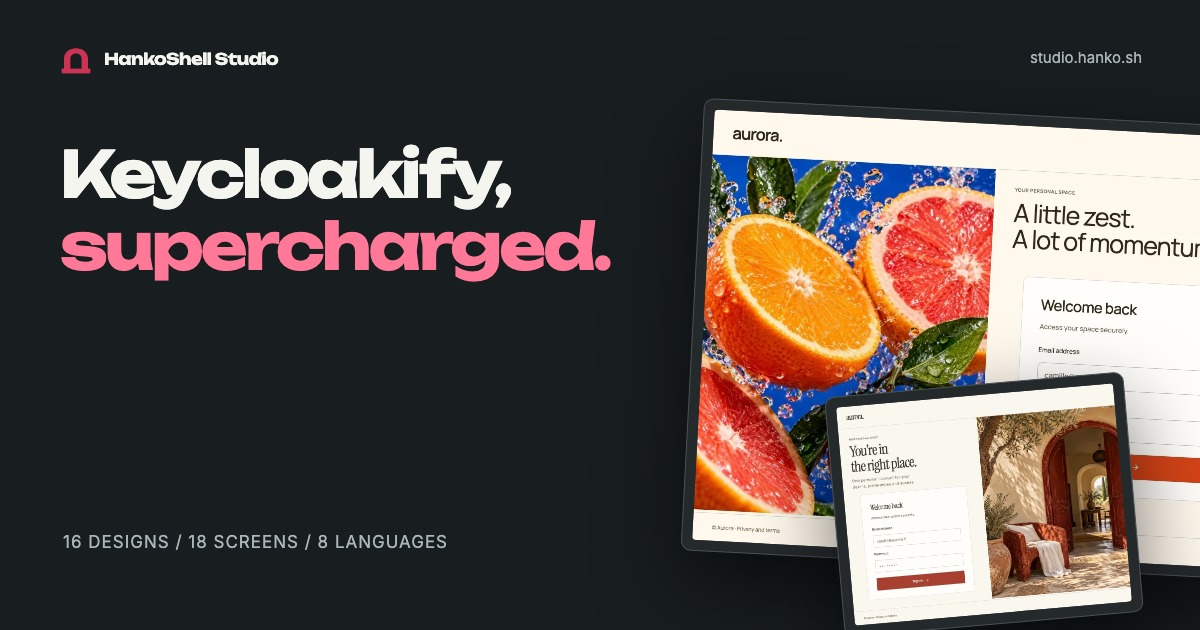
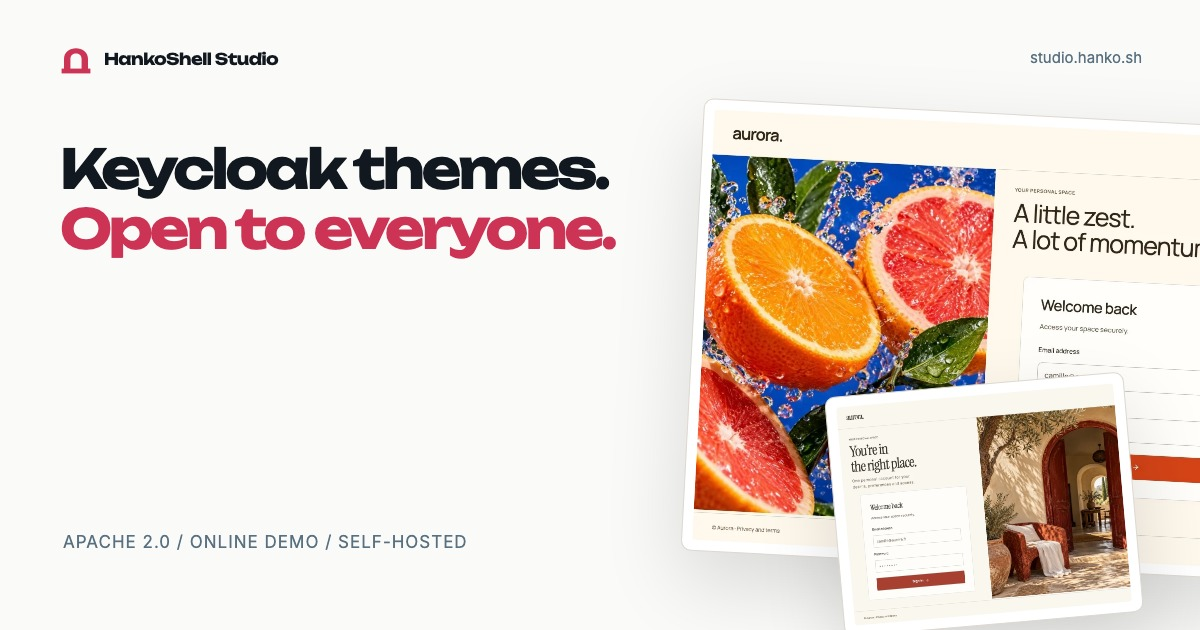
Align Studio appearance and clarify its open-source scope (#13)
Add light, dark and system appearance with matching HankoShell typography, palette and retained site-to-editor handoff. Present Studio as an independent Apache-2.0 tool for any Keycloak project and prepare version 0.1.1.

Canonicalize appearance input and qualify accessibility in both schemes. Full CI, isolated consumers, native Keycloak tests, public site tests and CodeQL passed for c8e31a607b2fd82f107a4cbd0943b7feaad2ecda.

Closes #12.

diff --git a/website/styles.css b/website/styles.css
@@ -1,4 +1,4 @@
-:root{color-scheme:dark;--panel:var(--bg-surface);--panel-raised:var(--bg-card);--ink:var(--fg);--muted:var(--fg-muted);--line:var(--border);--accent:var(--primary);--display:'HankoShell Display',sans-serif;--sans:'HankoShell Sans',Inter,system-ui,sans-serif;--mono:'HankoShell Mono',monospace}
+:root{--panel:var(--bg-surface);--panel-raised:var(--bg-card);--ink:var(--fg);--muted:var(--fg-muted);--line:var(--border);--accent:var(--primary);--display:'HankoShell Display',sans-serif;--sans:'HankoShell Sans',Inter,system-ui,sans-serif;--mono:'HankoShell Mono',monospace}
 *{box-sizing:border-box}html{scroll-behavior:smooth;scroll-padding-top:96px}body{margin:0;background:var(--bg);color:var(--ink);font:15px/1.6 var(--sans);-webkit-font-smoothing:antialiased}button,a{-webkit-tap-highlight-color:transparent}button,input{font:inherit}button{color:inherit}a{color:inherit;text-decoration:none}button,a,summary{touch-action:manipulation}button:focus-visible,a:focus-visible,summary:focus-visible{outline:2px solid var(--accent);outline-offset:5px}button{cursor:pointer}button:disabled{cursor:default}::selection{background:var(--primary-action);color:#fff}img{display:block;max-width:100%}button{border:0}p,h1,h2,h3,figure{margin:0}h1,h2,h3{font-weight:600}em{font-family:var(--display);font-weight:400}h2{font-size:clamp(38px,5vw,70px);line-height:1.06;letter-spacing:-.055em}h3{font-size:23px;line-height:1.25;letter-spacing:-.035em}.section-wrap{width:min(1440px,calc(100% - 112px));margin-inline:auto}.eyebrow{font-size:10px;font-weight:600;letter-spacing:.16em;line-height:1.6;text-transform:uppercase;color:var(--muted)}.skip-link{position:absolute;left:20px;top:-100px;z-index:100;background:var(--primary-action);color:#fff;padding:14px 20px}.skip-link:focus{top:14px}.site-header{height:88px;display:flex;align-items:center;justify-content:space-between;border-bottom:1px solid var(--line);gap:24px}.brand{display:flex;align-items:center;gap:11px;font-size:18px;letter-spacing:-.035em;font-weight:700;white-space:nowrap}.brand-mark{display:grid;place-items:center;width:34px;height:34px;background:var(--primary-action);color:#fff;border-radius:8px;font-size:20px;font-weight:800}.brand small{font-size:10px;color:var(--muted);font-weight:400;letter-spacing:0;margin-left:2px;align-self:flex-start;margin-top:3px}.site-nav{display:flex;align-items:center;gap:30px;color:#c0c6cb;font-size:12px}.site-nav a:hover{color:var(--ink)}.header-right{display:flex;align-items:center;gap:23px;font-size:12px}.header-open{border:1px solid var(--border-strong);padding:9px 16px;border-radius:5px}.header-open:hover{background:var(--accent);border-color:var(--accent);color:var(--bg)}.menu-toggle{display:none;background:transparent;padding:8px;border:1px solid var(--line);border-radius:4px;font-size:12px}.button{display:inline-flex;align-items:center;justify-content:space-between;gap:26px;padding:15px 21px;font-size:13px;font-weight:650;border-radius:5px;line-height:1.5}.button span{font-size:20px;line-height:1}.button-primary{background:var(--primary-action);color:#fff;transition:background .2s,transform .2s}.button-primary:hover{background:var(--primary-dim);transform:translateY(-2px)}.text-link{display:inline-flex;align-items:center;gap:15px;font-size:12px;font-weight:550}.text-link:hover{color:var(--accent)}.text-link span{font-size:20px}.status-dot{display:inline-block;width:6px;height:6px;flex:none;border-radius:50%;background:var(--accent)}.hero{display:grid;grid-template-columns:1fr 1.04fr;gap:58px;align-items:center;padding-block:82px 76px;position:relative}.hero:before{content:'';position:absolute;inset:-80px 0 auto 30%;height:600px;background:radial-gradient(ellipse at 80% 40%,#f24b7410,transparent 65%);pointer-events:none;z-index:-1}.hero-copy>.eyebrow{display:flex;gap:10px;align-items:center;margin-bottom:30px}h1{font-size:clamp(62px,6.9vw,109px);letter-spacing:-.075em;line-height:1;position:relative;z-index:1;font-weight:650}h1 em{display:block;color:var(--accent);font-size:1.12em;letter-spacing:-.06em;margin-top:5px}.hero-description{color:var(--muted);max-width:420px;font-size:15px;line-height:1.8;margin-top:30px}.hero-actions{display:flex;align-items:center;gap:25px;margin-top:30px}.hero-footnote{font-size:10px;color:var(--muted);margin-top:18px}.hero-stage{position:relative;border:1px solid var(--border-strong);border-radius:11px;background:linear-gradient(125deg,#24272b,#171b1f);box-shadow:0 35px 90px #0007;padding:15px;transform:rotate(1deg);min-width:0}.stage-topline{display:flex;justify-content:space-between;align-items:center;padding:3px 3px 14px;font-size:8px;letter-spacing:.16em;color:#bfc3c8}.stage-label{display:flex;align-items:center;gap:8px}.stage-label i{display:block;width:5px;height:5px;background:var(--accent);border-radius:50%}.stage-count{font-size:9px;color:#d7dadf}.stage-screen{overflow:hidden;background:#14181c;border-radius:5px;aspect-ratio:4/3;border:1px solid #42464c}.stage-screen img{width:100%;height:100%;object-fit:contain;transition:opacity .18s}.stage-screen-tabs{display:flex;gap:4px;padding:11px 0 10px;border-bottom:1px solid #3a3e43}.stage-screen-tabs button{background:transparent;font-size:9px;border-radius:3px;padding:5px 11px;color:#b4b8be}.stage-screen-tabs button[aria-pressed=true]{background:#49323e;color:#f8e5ee}.stage-bottom{display:flex;align-items:center;justify-content:space-between;gap:10px;padding:16px 4px 8px}.stage-bottom .eyebrow{font-size:7px;letter-spacing:.13em}.stage-bottom strong{font-size:23px;font-weight:500;letter-spacing:-.04em;line-height:1.3}.stage-bottom a{display:flex;align-items:center;gap:20px;font-size:10px}.stage-bottom a:hover{color:var(--accent)}.stage-bottom a span{font-size:20px}.stage-theme-tabs{display:flex;gap:5px;padding-top:12px;position:absolute;bottom:-38px;left:0}.stage-theme-tabs button{display:flex;align-items:center;gap:6px;background:transparent;border:1px solid transparent;border-radius:4px;padding:5px 9px;font-size:10px;color:var(--muted)}.stage-theme-tabs button[aria-pressed=true]{border-color:#51404c;color:var(--ink);background:#1b161d}.theme-dot{display:block;flex:none;width:6px;height:6px;border-radius:50%;background:var(--dot-color)}.facts{display:grid;grid-template-columns:repeat(4,1fr);border-block:1px solid var(--line);padding-block:22px;margin-top:34px}.facts>div{display:flex;align-items:center;gap:17px;justify-content:center;border-right:1px solid var(--line);padding:2px 15px}.facts>div:first-child{justify-content:flex-start;padding-left:0}.facts>div:last-child{border:0}.facts strong{font-size:40px;letter-spacing:-.07em;font-weight:500;line-height:1}.facts strong>span{font-size:20px}.facts>div>span{font-size:11px;color:var(--muted);line-height:1.5;max-width:115px}.collection{padding-block:120px 100px}.section-heading{display:flex;align-items:flex-end;justify-content:space-between;gap:44px;margin-bottom:47px}.section-heading h2{margin-top:19px}.section-heading>p{color:var(--muted);font-size:14px;line-height:1.8;max-width:355px;padding-bottom:3px}.collection-toolbar{display:flex;align-items:center;justify-content:space-between;gap:20px;border-bottom:1px solid var(--line);padding-bottom:20px;margin-bottom:25px}.collection-filters{display:flex;flex-wrap:wrap;gap:6px}.collection-filters button{font-size:10px;line-height:1.5;color:#adb8ae;background:transparent;border:1px solid #353a40;padding:7px 13px;border-radius:30px;white-space:nowrap}.collection-filters button[aria-pressed=true]{background:var(--ink);border-color:var(--ink);color:#1b1f21}.collection-filters button:hover{border-color:#84717e}.collection-filters button span{font-size:9px;margin-left:6px;opacity:.65}.theme-count{font-size:10px;color:var(--muted);white-space:nowrap}.theme-grid{display:grid;grid-template-columns:repeat(4,minmax(0,1fr));gap:32px 20px}.theme-card[hidden]{display:none}.theme-card{min-width:0}.theme-card>a{display:block}.theme-image{background:#191d23;border:1px solid #41454d;border-radius:7px;overflow:hidden;aspect-ratio:4/3;position:relative}.theme-image img{width:100%;height:100%;object-fit:contain;transition:transform .35s}.theme-card:hover .theme-image img{transform:scale(1.035)}.theme-open{position:absolute;right:10px;bottom:10px;background:#14151bed;backdrop-filter:blur(6px);padding:4px 9px;border:1px solid #746571;border-radius:4px;font-size:10px;opacity:0;transform:translateY(5px);transition:opacity .2s,transform .2s}.theme-card:hover .theme-open,.theme-card:focus-within .theme-open{opacity:1;transform:none}.theme-card-meta{padding:14px 1px 0}.theme-card-title{display:flex;gap:10px;align-items:baseline;justify-content:space-between}.theme-card-title h3{font-size:18px;letter-spacing:-.035em;line-height:1.3}.theme-card-title span{color:var(--muted);font-size:7px;letter-spacing:.08em;text-transform:uppercase;white-space:nowrap}.theme-card-meta>p{font-size:11px;margin-top:7px;color:var(--muted);line-height:1.5}.theme-palette{display:flex;gap:3px;margin-top:10px}.theme-palette i{width:10px;height:10px;border:1px solid #ffffff30;border-radius:50%;background:var(--swatch)}.collection-note{color:var(--muted);text-align:center;font-size:10px;margin-top:33px}.experience{padding-block:65px 100px;border-top:1px solid var(--line)}.experience-screens{display:grid;grid-template-columns:1.15fr 1fr;gap:25px;align-items:center}.experience-screens figure{min-width:0}.experience-screens img{width:100%;height:auto;aspect-ratio:4/3;object-fit:contain;background:#1d2127;border:1px solid #514951;border-radius:7px}.experience-secondary{transform:translateY(30px)}.experience-screens figcaption{display:flex;justify-content:space-between;color:var(--muted);font-size:9px;padding:12px 0}.experience-screens figcaption span:last-child{color:var(--accent)}.experience-caption{margin-top:48px;display:flex;justify-content:space-between;align-items:center;gap:24px}.experience-caption>p{font-size:11px;color:var(--muted);display:flex;gap:12px;align-items:center}.small-rule{display:block;width:24px;height:1px;background:var(--accent)}.workflow{display:grid;grid-template-columns:1fr 1fr;gap:100px;align-items:start;padding-block:100px;border-top:1px solid var(--line)}.workflow-intro h2{margin-top:20px}.workflow-intro h2 em{color:var(--primary)}.workflow-intro>p:not(.eyebrow){font-size:14px;line-height:1.8;color:var(--muted);max-width:390px;margin-block:26px}.workflow-steps{list-style:none;padding:0;margin:0}.workflow-steps li{display:flex;gap:28px;padding:29px 0;border-bottom:1px solid var(--line)}.workflow-steps li:first-child{padding-top:6px}.workflow-steps li:last-child{border:0}.step-number{font-size:11px;color:var(--accent);padding-top:5px}.workflow-steps p{font-size:13px;line-height:1.8;color:var(--muted);margin-top:12px}.developers{border-top:1px solid var(--line);padding-block:90px 100px}.developer-layout{display:grid;grid-template-columns:1.2fr 1fr;gap:55px;align-items:center}.terminal{border:1px solid #42404b;background:#161920;min-width:0;border-radius:7px;overflow:hidden;box-shadow:0 18px 50px #0003}.terminal-heading{display:flex;align-items:center;justify-content:space-between;padding:14px 17px;border-bottom:1px solid #36323c;font-size:8px;letter-spacing:.1em;color:#b4a7b2;gap:10px}.terminal-heading>span:first-child{display:flex;gap:4px}.terminal-heading i{display:block;background:#564951;width:5px;height:5px;border-radius:50%}.terminal-heading button{background:none;color:#eadbe6;font-size:9px;padding:0;letter-spacing:0}.terminal-body{padding:24px 23px 20px}.terminal pre{font:10px/2.15 var(--mono);white-space:pre-wrap;overflow-wrap:anywhere;color:#f3d8e6;margin:6px 0 26px}.code-comment{font:10px/1.7 var(--mono);color:#b4a5b0}.terminal-result{border-top:1px solid #36323c;display:flex;align-items:center;gap:10px;padding-top:16px;font-size:10px;color:#c1abb9}.terminal-result .status-dot{width:4px;height:4px}.terminal-footer{padding:13px 17px;display:flex;justify-content:space-between;align-items:center;gap:15px;border-top:1px solid #36323c;color:#b4a7b2;font-size:8px}.terminal-footer a{color:#f3d8e6}.export-options>div{display:flex;gap:20px;padding:22px 0;border-bottom:1px solid var(--line)}.export-options>div:first-child{padding-top:0}.export-options>div:last-child{border:0;padding-bottom:0}.format-tag{display:grid;place-items:center;flex:none;width:43px;height:43px;border:1px solid #51434e;border-radius:5px;font:9px var(--mono);color:var(--accent)}.export-options h3{font-size:18px}.export-options p{font-size:12px;line-height:1.8;color:var(--muted);margin-top:7px}.languages-section{padding-block:80px 90px;text-align:center;border-block:1px solid var(--line)}.languages-section h2{margin-block:24px 35px;font-size:clamp(33px,4.4vw,61px)}.languages-section h2 em{color:var(--accent)}.language-list{display:flex;flex-wrap:wrap;justify-content:center;gap:9px}.language-list>span{font-size:12px;padding:9px 16px;border:1px solid var(--line);border-radius:5px;background:#17191f}.language-list small{font-size:7px;margin-left:5px;color:var(--accent)}.languages-section>p:last-child{font-size:10px;color:var(--muted);margin-top:24px}.faq{display:grid;grid-template-columns:1fr 1.4fr;gap:100px;padding-block:100px}.faq h2{font-size:clamp(35px,4vw,54px);margin-top:20px}.faq-list details{border-bottom:1px solid var(--line)}.faq-list details:first-child{border-top:1px solid var(--line)}.faq-list summary{list-style:none;padding:22px 34px 22px 0;cursor:pointer;font-size:14px;position:relative}.faq-list summary::-webkit-details-marker{display:none}.faq-list summary:after{content:'+';position:absolute;right:3px;top:19px;color:var(--accent);font-size:20px;font-weight:300}.faq-list details[open] summary:after{content:'−'}.faq-list details>p{color:var(--muted);font-size:12px;line-height:1.9;padding:0 30px 24px 0}.faq-list a{text-decoration:underline}.closing{border-top:1px solid var(--line);text-align:center;padding-block:90px 95px;background:radial-gradient(ellipse at 50% 120%,#e72c6410,transparent 65%)}.closing h2{font-size:clamp(45px,7vw,95px);margin-block:20px 33px;letter-spacing:-.06em}.closing h2 em{color:var(--accent)}.button-large{padding:17px 26px;font-size:14px;gap:45px}.closing>p:last-child{font-size:10px;color:var(--muted);margin-top:20px}.site-footer{display:flex;justify-content:space-between;align-items:center;gap:20px;border-top:1px solid var(--line);padding-block:25px 30px}.footer-brand{display:flex;gap:20px;align-items:center}.footer-brand .brand{font-size:13px}.footer-brand .brand-mark{width:25px;height:25px;font-size:15px;border-radius:5px}.footer-brand>p{font-size:9px;color:var(--muted)}.footer-links{display:flex;gap:22px;font-size:9px;color:var(--muted)}.footer-links a:hover{color:var(--accent)}.detail-top{padding-block:48px 80px}.back-link{font-size:11px;color:var(--muted);display:inline-block;margin-bottom:45px}.back-link:hover{color:var(--accent)}.detail-heading{display:grid;grid-template-columns:1fr 1fr;gap:60px;align-items:end;margin-bottom:44px}.detail-heading h1{font-size:clamp(70px,9vw,130px);margin-top:15px}.detail-heading>div>p:not(.eyebrow){max-width:500px;color:var(--muted);font-size:16px;margin-bottom:23px}.detail-image{border:1px solid #51434e;background:#1a1d23;padding:14px;border-radius:10px}.detail-image img{width:100%;height:auto;max-height:920px;object-fit:contain}.detail-info{display:grid;grid-template-columns:1fr 1fr;gap:90px;padding-block:65px;border-bottom:1px solid var(--line)}.detail-info h2{font-size:36px;line-height:1.2;margin-top:16px}.detail-info ul{padding:0 0 0 16px;color:var(--muted);font-size:14px;line-height:1.9;margin-top:23px}.detail-info .theme-palette{margin-top:24px;gap:9px}.detail-info .theme-palette i{width:30px;height:30px}.detail-screens{display:grid;grid-template-columns:1fr 1fr;gap:25px;margin-block:65px}.detail-screens figure{min-width:0}.detail-screens img{border:1px solid #51434e;background:#1a1d23;aspect-ratio:4/3;object-fit:contain;width:100%;border-radius:6px}.detail-screens figcaption{display:flex;justify-content:space-between;color:var(--muted);font-size:11px;padding-top:14px}.screen-list{display:flex;flex-wrap:wrap;gap:8px;margin-top:22px}.screen-list span{font-size:10px;border:1px solid var(--line);border-radius:4px;padding:5px 9px}.detail-related{padding-block:25px 80px}.detail-related>h2{font-size:34px;margin-bottom:30px}.not-found{text-align:center;padding-block:110px}.not-found h1{font-size:80px}.not-found p{color:var(--muted);margin:25px auto 30px;max-width:400px}
 @media(min-width:1800px){.section-wrap{width:min(1536px,calc(100% - 160px))}.hero{gap:90px;padding-block:100px 95px}h1{font-size:120px}}
 @media(max-width:1200px){.section-wrap{width:calc(100% - 72px)}.hero{gap:35px}h1{font-size:clamp(55px,7.4vw,90px)}.site-nav{gap:19px}.hero-description{font-size:13px}.facts>div{gap:13px}.facts>div>span{font-size:10px}.facts strong{font-size:34px}.theme-grid{grid-template-columns:repeat(3,minmax(0,1fr))}.workflow{gap:60px}.developer-layout{gap:30px}.faq{gap:65px}.terminal-footer{font-size:7px}.theme-card-title span{font-size:7px}.section-heading>p{max-width:300px}}
@@ -18,3 +18,24 @@ h1,h2,h3,.brand-name{font-family:var(--display);font-weight:700}em{font-style:no
 @media(max-width:650px){h1{font-size:clamp(28px,7.8vw,48px)}h2{font-size:29px}.brand-name{font-size:12px}.brand-studio{font-size:10px}.brand-mark{width:28px;height:28px}.closing h2{font-size:32px}.languages-section h2{font-size:28px}.faq h2{font-size:27px}.detail-heading h1{font-size:50px}}
 
 .terminal code{font:inherit}
+
+/* The public site uses the same appearance tokens as the editor. */
+.site-nav{color:var(--fg-secondary)}
+.hero-stage{background:var(--bg-card);box-shadow:0 24px 70px color-mix(in srgb,var(--fg) 10%,transparent)}
+.stage-topline,.stage-count,.stage-screen-tabs button{color:var(--fg-secondary)}
+.stage-screen{background:var(--bg-subtle);border-color:var(--border)}
+.stage-screen-tabs{border-color:var(--border)}
+.stage-screen-tabs button[aria-pressed=true],.stage-theme-tabs button[aria-pressed=true]{background:var(--ring-glow);color:var(--fg);border-color:var(--border-strong)}
+.collection-filters button{color:var(--fg-secondary);border-color:var(--border-strong)}
+.collection-filters button[aria-pressed=true]{background:var(--fg);color:var(--bg);border-color:var(--fg)}
+.collection-filters button:hover{border-color:var(--primary)}
+.theme-image,.experience-screens img,.detail-image,.detail-screens img{background:var(--bg-surface);border-color:var(--border-strong)}
+.theme-open{background:var(--bg-card);border-color:var(--border-strong);color:var(--fg)}
+.theme-palette i,.format-tag{border-color:var(--border-strong)}
+.language-list>span{background:var(--bg-card)}
+.header-right{gap:14px}.appearance-control select{max-width:90px;padding:7px;border:1px solid var(--border-strong);border-radius:5px;color:var(--fg);background:var(--bg-surface);font:inherit}
+.appearance-control select:focus-visible{outline:2px solid var(--primary);outline-offset:3px}
+.sr-only{position:absolute;width:1px;height:1px;padding:0;margin:-1px;overflow:hidden;clip:rect(0,0,0,0);white-space:nowrap;border:0}
+@media(max-width:650px){.site-header.section-wrap{width:calc(100% - 32px);gap:8px}.brand{gap:7px}.brand-name{font-size:13px}.brand-studio{display:block;font-size:10px}.brand small{display:none}.header-right{gap:8px}.header-right>a{display:none}.appearance-control select{max-width:78px;font-size:11px}.menu-toggle{font-size:11px;padding:7px}.brand-mark{width:23px;height:26px}}
+
+.button,.header-open,.appearance-control select{border-radius:6px}

diff --git a/studio/src/dev.tsx b/studio/src/dev.tsx
@@ -1,14 +1,32 @@
+import {useEffect,useState} from 'react';
 import {createRoot} from 'react-dom/client';
 import {ThemeStudio} from './index';
 import {TemplatePreview,themePages} from './template-gallery';
 import {catalogue} from './catalog-data';
 import {resolveLocale} from './i18n';
+import {appearanceStorageKey,readAppearance,parseAppearance,type StudioAppearance} from './appearance';
 import './style.css';
 const parameters=new URLSearchParams(location.search);
 const preview=parameters.get('preview');
 const locale=resolveLocale(parameters.get('locale')||undefined,'en');
 const initialView=parameters.get('view')==='editor'?'editor':'gallery';
 const requestedScreen=parameters.get('screen'),screen=catalogue.themes[0].templates.some(template=>template.editorPage===requestedScreen)?requestedScreen!:requestedScreen==='account'?'account:0':requestedScreen==='security'?'account:1':undefined;
-const colorScheme=parameters.get('scheme')==='system'?'system':'dark';
 const initialGallery={collection:parameters.get('collection')||undefined,theme:parameters.get('direction')||undefined,page:screen};
-createRoot(document.getElementById('root')!).render(preview&&catalogue.themes.some(theme=>theme.id===preview)?<div className="hanko-theme-studio" lang={locale} data-theme="light"><TemplatePreview pages={themePages(preview)} initial={screen} locale={locale}/></div>:<div className="standalone-studio" data-theme={colorScheme==='system'?undefined:'dark'}><div className="studio-demo-banner"><a href="../">← HankoShell Studio</a><p><strong>Browser demo</strong><span>Edit and export here. Compile Keycloak themes locally with the CLI.</span></p><nav className="studio-package-links" aria-label="npm packages"><a href="https://www.npmjs.com/package/@alien6-studio/hankoshell-keycloak-theme-builder" target="_blank" rel="noopener noreferrer">CLI on npm ↗</a><a href="https://www.npmjs.com/package/@alien6-studio/hankoshell-theme-studio" target="_blank" rel="noopener noreferrer">React Studio on npm ↗</a><a href="https://github.com/Alien6-Studio/hankoshell-keycloak-theme-builder#compile-a-studio-project" target="_blank" rel="noopener noreferrer">Build locally ↗</a></nav></div><ThemeStudio colorScheme={colorScheme} initialView={initialView} initialGallery={initialGallery} initialLocale={locale}/></div>);
+function StandaloneStudio(){
+  const [appearance,setAppearance]=useState<StudioAppearance>(readAppearance);
+  const [system,setSystem]=useState(()=>matchMedia('(prefers-color-scheme: dark)').matches?'dark':'light');
+  const resolved=appearance==='system'?system:appearance;
+  useEffect(()=>{const media=matchMedia('(prefers-color-scheme: dark)');const update=()=>setSystem(media.matches?'dark':'light');media.addEventListener('change',update);return()=>media.removeEventListener('change',update);},[]);
+  useEffect(()=>{try{localStorage.setItem(appearanceStorageKey,appearance);}catch{/* Optional browser preference. */}const url=new URL(location.href);url.searchParams.set('scheme',appearance);history.replaceState(null,'',url);document.documentElement.dataset.theme=resolved;},[appearance,resolved]);
+  if(preview&&catalogue.themes.some(theme=>theme.id===preview))return <div className="hanko-theme-studio" lang={locale} data-theme={resolved}><TemplatePreview pages={themePages(preview)} initial={screen} locale={locale}/></div>;
+  return <div className="standalone-studio" data-theme={resolved}>
+    <div className="studio-demo-banner">
+      <a href={`../?scheme=${appearance}`}>← HankoShell Studio</a>
+      <p><strong>Open-source demo</strong><span>For any Keycloak project. Edit and export here; compile locally with the CLI.</span></p>
+      <label className="studio-appearance">Appearance<select value={appearance} onChange={event=>{const next=parseAppearance(event.target.value);if(next)setAppearance(next);}}><option value="light">Light</option><option value="dark">Dark</option><option value="system">System</option></select></label>
+      <nav className="studio-package-links" aria-label="npm packages"><a href="https://www.npmjs.com/package/@alien6-studio/hankoshell-keycloak-theme-builder" target="_blank" rel="noopener noreferrer">CLI on npm ↗</a><a href="https://www.npmjs.com/package/@alien6-studio/hankoshell-theme-studio" target="_blank" rel="noopener noreferrer">React Studio on npm ↗</a><a href="https://github.com/Alien6-Studio/hankoshell-keycloak-theme-builder#compile-a-studio-project" target="_blank" rel="noopener noreferrer">Build locally ↗</a></nav>
+    </div>
+    <ThemeStudio colorScheme={appearance} initialView={initialView} initialGallery={initialGallery} initialLocale={locale}/>
+  </div>;
+}
+createRoot(document.getElementById('root')!).render(<StandaloneStudio/>);

diff --git a/studio/src/dashboard-tokens.css b/studio/src/dashboard-tokens.css
@@ -1,15 +1,15 @@
 /* Shared Dashboard design tokens and control styles. */
 [data-theme="dark"] {
-  --bg:            oklch(0.21 0.010 215);
-  --bg-surface:    oklch(0.24 0.010 215);
-  --bg-card:       oklch(0.26 0.010 215);
-  --bg-subtle:     oklch(0.22 0.010 215);
-  --bg-hover:      oklch(0.31 0.010 215);
-  --border:        oklch(0.36 0.010 215);
-  --border-strong: oklch(0.44 0.010 215);
-  --fg:            oklch(0.94 0.006 215);
-  --fg-secondary:  oklch(0.70 0.008 215);
-  --fg-muted:      oklch(0.68 0.010 215);
+  --bg:            #111820;
+  --bg-surface:    #18232C;
+  --bg-card:       #1D2C36;
+  --bg-subtle:     #141F28;
+  --bg-hover:      #283A47;
+  --border:        #354754;
+  --border-strong: #526775;
+  --fg:            #F5F3EF;
+  --fg-secondary:  #BDCAD1;
+  --fg-muted:      #ABBCC7;
   /* HankoShell brand rose; semantic states stay on dedicated tokens. */
   --primary:       oklch(0.74 0.16 12);
   --primary-action: #CC3355;
@@ -33,7 +33,7 @@
   --card-foreground:    var(--fg);
   --popover:            var(--bg-surface);
   --popover-foreground: var(--fg);
-  --primary-foreground: oklch(1 0 0);
+  --primary-foreground: #FFFFFF;
   --secondary:          var(--bg-hover);
   --secondary-foreground: var(--fg-secondary);
   --muted:              var(--bg-hover);
@@ -43,7 +43,7 @@
   --destructive:        var(--accent-red);
   --input:              var(--border);
   --ring:               var(--primary);
-  --radius-sm:          0.45rem;
+  --radius-sm:          0.375rem;
   --radius:             0.625rem;
   --radius-md:          0.625rem;
   --radius-lg:          0.8rem;
@@ -55,19 +55,19 @@
 }
 
 [data-theme="light"] {
-  --bg:            oklch(0.975 0.004 215);
-  --bg-surface:    oklch(1 0 0);
-  --bg-card:       oklch(1 0 0);
-  --bg-subtle:     oklch(0.96 0.005 215);
-  --bg-hover:      oklch(0.94 0.005 215);
-  --border:        oklch(0.87 0.007 215);
-  --border-strong: oklch(0.78 0.009 215);
-  --fg:            oklch(0.14 0.012 215);
-  --fg-secondary:  oklch(0.40 0.010 215);
-  --fg-muted:      oklch(0.52 0.009 215);
-  --primary:       oklch(0.52 0.20 12);
+  --bg:            #FAFAF8;
+  --bg-surface:    #FFFFFF;
+  --bg-card:       #FFFFFF;
+  --bg-subtle:     #F4F2EE;
+  --bg-hover:      #F0EDE8;
+  --border:        #DDD8D0;
+  --border-strong: #B8B0A8;
+  --fg:            #111820;
+  --fg-secondary:  #435B6A;
+  --fg-muted:      #587080;
+  --primary:       #991A3A;
   --primary-action: #CC3355;
-  --primary-dim:   oklch(0.42 0.19 12);
+  --primary-dim:   #991A3A;
   --ring-glow:     oklch(0.52 0.20 12 / 0.14);
   --brand:         var(--primary);
   --brand-soft:    var(--ring-glow);
@@ -87,7 +87,7 @@
   --card-foreground:    var(--fg);
   --popover:            var(--bg-surface);
   --popover-foreground: var(--fg);
-  --primary-foreground: oklch(1 0 0);
+  --primary-foreground: #FFFFFF;
   --secondary:          var(--bg-hover);
   --secondary-foreground: var(--fg-secondary);
   --muted:              var(--bg-hover);
@@ -97,7 +97,7 @@
   --destructive:        var(--accent-red);
   --input:              var(--border);
   --ring:               var(--primary);
-  --radius-sm:          0.45rem;
+  --radius-sm:          0.375rem;
   --radius:             0.625rem;
   --radius-md:          0.625rem;
   --radius-lg:          0.8rem;
@@ -132,7 +132,7 @@
   color: #fff;
   border-color: var(--primary);
 }
-.hk-btn--primary:hover { opacity: 0.92; box-shadow: var(--shadow-glow); }
+.hk-btn--primary:hover { background: var(--primary-dim); opacity: 1; box-shadow: var(--shadow-glow); }
 
 .hk-btn--secondary {
   background: var(--secondary);

diff --git a/website/index.html b/website/index.html
@@ -9,11 +9,11 @@
 <main id="main">
   <section class="hero section-wrap" aria-labelledby="hero-title">
     <div class="hero-copy">
-      <p class="eyebrow"><span class="status-dot"></span> A visual studio built on Keycloakify</p>
-      <h1 id="hero-title">Keycloakify,<br><em>supercharged.</em></h1>
-      <p class="hero-description">Give every interaction your identity. Start with a considered design, make it yours, and take the whole experience from first sign-in to account settings.</p>
-      <div class="hero-actions"><a class="button button-primary" href="./app/?locale=en">Open the Studio <span aria-hidden="true">↗</span></a><a class="text-link" href="#collection">Find your theme <span aria-hidden="true">↓</span></a></div>
-      <p class="hero-footnote">Open source. Free to use. Build locally with the CLI.</p>
+      <p class="eyebrow"><span class="status-dot"></span> Open source · For every Keycloak project</p>
+      <h1 id="hero-title">Your Keycloak.<br><em>Your design.</em></h1>
+      <p class="hero-description">An open-source visual theme studio for your Keycloak projects. Explore complete designs, edit your screens and export your source. Try the online demo or host the Studio yourself.</p>
+      <div class="hero-actions"><a class="button button-primary" href="./app/?locale=en">Try the online demo <span aria-hidden="true">↗</span></a><a class="text-link" href="#collection">Find your theme <span aria-hidden="true">↓</span></a></div>
+      <p class="hero-footnote">Apache 2.0. No account or HankoShell subscription required.</p>
     </div>
     <div class="hero-stage" aria-label="Explore real theme previews">
       <div class="stage-topline"><span class="stage-label"><i></i> THE LIVE COLLECTION</span><span class="stage-count">01 / 16</span></div>

diff --git a/website/appearance.js b/website/appearance.js
@@ -1,0 +1,13 @@
+// Shared origin preference for the public site and the standalone demo.
+(()=>{
+  const key='hankoshell-studio-appearance',valid=value=>['light','dark','system'].includes(value);
+  const media=matchMedia('(prefers-color-scheme: dark)');
+  const requested=new URLSearchParams(location.search).get('scheme');
+  let saved;try{saved=localStorage.getItem(key);}catch{/* Optional preference. */}
+  let choice=valid(requested)?requested:valid(saved)?saved:'light';
+  function apply(){document.documentElement.dataset.theme=choice==='system'?(media.matches?'dark':'light'):choice;document.documentElement.dataset.appearance=choice;try{localStorage.setItem(key,choice);}catch{/* Storage is optional. */}}
+  apply();media.addEventListener('change',()=>{if(choice==='system')apply();});
+  document.addEventListener('change',event=>{if(event.target.matches('[data-appearance-select]')&&valid(event.target.value)){choice=event.target.value;apply();const url=new URL(location.href);url.searchParams.set('scheme',choice);history.replaceState(null,'',url);}});
+  document.addEventListener('DOMContentLoaded',()=>{for(const select of document.querySelectorAll('[data-appearance-select]'))select.value=choice;});
+  document.addEventListener('click',event=>{const anchor=event.target.closest('a[href]');if(!anchor)return;const url=new URL(anchor.href,location.href);if(url.origin===location.origin&&url.pathname.includes('/app/')){url.searchParams.set('scheme',choice);anchor.href=url.href;}});
+})();

diff --git a/studio/src/style.css b/studio/src/style.css
@@ -494,3 +494,7 @@ button svg { flex-shrink:0; }
 
 /* HankoShell identity applies to editor chrome, while authored theme frames own their fonts. */
 .studio-brand .brand-mark{background:none;border-radius:0;width:30px;height:30px;object-fit:contain}.studio-brand strong{font-family:'HankoShell Display',sans-serif;font-size:14px;font-weight:700}.gallery-heading h1,.publication-title h1{font-family:'HankoShell Display',sans-serif;font-weight:700;letter-spacing:-.04em}.gallery-heading h1{font-size:clamp(24px,3.5vw,42px)}
+
+.studio-appearance{display:flex;align-items:center;gap:8px;font-size:11px;color:var(--fg-secondary)}.studio-appearance select{padding:6px 24px 6px 8px;border:1px solid var(--border);border-radius:6px;background:var(--bg-surface);color:var(--fg);font:inherit}.studio-appearance select:focus-visible{outline:2px solid var(--primary);outline-offset:3px}
+
+.studio-brand strong{font-family:'HankoShell Display',sans-serif;font-size:13px;line-height:1.5}

diff --git a/studio/src/appearance.ts b/studio/src/appearance.ts
@@ -1,0 +1,19 @@
+export type StudioAppearance = 'light' | 'dark' | 'system';
+export const appearanceStorageKey = 'hankoshell-studio-appearance';
+export function parseAppearance(value: unknown): StudioAppearance | undefined {
+  switch (value) {
+    case 'light': return 'light';
+    case 'dark': return 'dark';
+    case 'system': return 'system';
+    default: return undefined;
+  }
+}
+export function readAppearance(): StudioAppearance {
+  const requested = parseAppearance(new URLSearchParams(location.search).get('scheme'));
+  if (requested) return requested;
+  try {
+    const saved = parseAppearance(localStorage.getItem(appearanceStorageKey));
+    if (saved) return saved;
+  } catch { /* The editor also works with browser storage disabled. */ }
+  return 'light';
+}

diff --git a/studio/README.md b/studio/README.md
@@ -1,10 +1,10 @@
-# Hanko Theme Studio
+# HankoShell Theme Studio
 
 Visual editor shared by the standalone builder and the Hanko Dashboard. React module, shadcn/Radix controls, scoped styles, guided blocks, media uploads, editable translations and interactive account/administration previews.
 
 The gallery includes **16 complete themes**: 18 screens each, eight content languages including Arabic and Hebrew RTL, eight photographic directions and four reusable sections. The gallery, exploration dialog and editor use the same catalogue documents and rendering frame. Previews start in English and preserve the selected language when opened in the editor. Apply a whole theme or one page while choosing whether to retain your brand and existing content. Save personal templates in the host library; standalone projects and templates use IndexedDB in the current browser. Export JSON for backup and sharing. The gallery and its theme descriptions use English. Editing controls are currently French; theme content supports all eight languages. Projects show their unsaved state, and a document close/reload prompts when changes remain. Browser history and deep links for editor states are not connected yet.
 
-Try the [public Studio](https://studio.hanko.sh/app/?locale=en). It opens in the HankoShell dark palette with red accents. The browser demo supports editing and exports; native compilation requires the local CLI. It has no build service or connection to your Keycloak server. Embedded hosts can choose light, dark or system colours with `colorScheme`.
+Try the [public Studio](https://studio.hanko.sh/app/?locale=en). It starts in the light HankoShell appearance with red accents. Choose light, dark or system appearance; your choice is retained between the public site and demo. The Studio is an Apache-2.0 tool for any Keycloak project, with no HankoShell subscription required. The browser demo supports editing and exports; native compilation requires the local CLI. It has no build service or connection to your Keycloak server. Embedded hosts can choose light, dark or system colours with `colorScheme`.
 
 ## Gallery and live editor
 

diff --git a/README.md b/README.md
@@ -1,6 +1,6 @@
-# Hanko Theme Builder and Studio
+# HankoShell Theme Builder and Studio
 
-[Open Hanko Studio](https://studio.hanko.sh/) to explore 16 complete Keycloak design directions, edit their pages and export your project. The public site and browser editor share the HankoShell dark palette and red accent. The [React Studio module](studio/README.md) can also be embedded in your application or the Hanko Dashboard.
+[Open Hanko Studio](https://studio.hanko.sh/) to explore 16 complete Keycloak design directions, edit their pages and export your project. The public site and editor share HankoShell typography and red accents, with light, dark and system appearance. The online demo and the self-hosted editor work with any Keycloak project; no HankoShell platform or services subscription is required. The [React Studio module](studio/README.md) can also be embedded in your application or the Hanko Dashboard.
 
 Build native Keycloak themes from React and brand configuration. Preview them locally, compile a JAR through the CLI or Node API, and publish appearance changes without rebuilding. Use it independently or embed it in your platform; no Hanko services or credentials are required.
 
@@ -44,7 +44,7 @@ Install the CLI and native API from npm:
 npm install @alien6-studio/hankoshell-keycloak-theme-builder
 ```
 
-The [v0.1.0 release](https://github.com/Alien6-Studio/hankoshell-keycloak-theme-builder/releases/tag/v0.1.0) also provides independently installable package archives, the standalone Studio website, an example JAR, SHA-256 checksums and GitHub build attestations. Verify downloaded assets with `gh attestation verify <file> --repo Alien6-Studio/hankoshell-keycloak-theme-builder`.
+The [latest release](https://github.com/Alien6-Studio/hankoshell-keycloak-theme-builder/releases/latest) also provides independently installable package archives, the standalone Studio website, an example JAR, SHA-256 checksums and GitHub build attestations. Verify downloaded assets with `gh attestation verify <file> --repo Alien6-Studio/hankoshell-keycloak-theme-builder`.
 
 ## Public website
 
